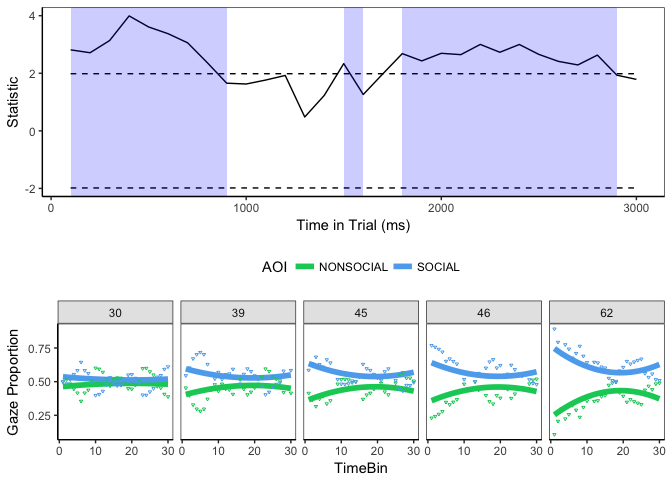
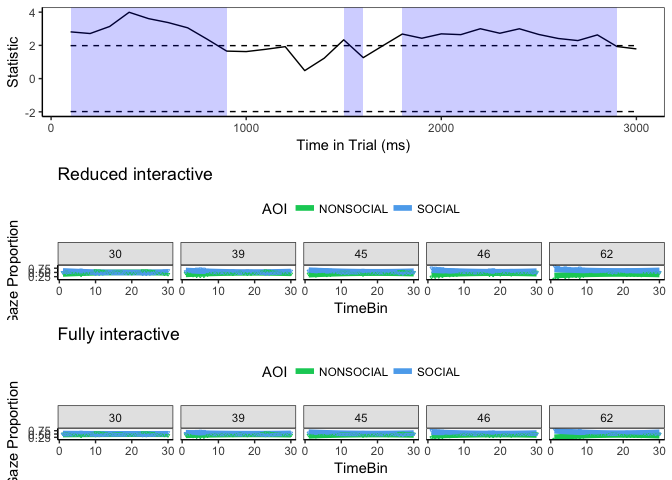
Update

diff --git a/3_sec.md b/3_sec.md
@@ -46,7 +46,7 @@ head(BIGDATA_CLEAN)
 ## 16       -   -    106  TRUE       0  FALSE     FALSE    24  102
 ```
 
-Here I assign the a variable for whether the image is inact or scrambled and also add the subject EQ/AQ data.
+Here I assign a variable for whether the image is inact or scrambled and also add the subject EQ/AQ data.
 
 
 ```r
@@ -100,17 +100,7 @@ Here I collapse time across the entire trial length and return a dataframe for p
 ```r
 library(ggplot2)
 response_window_agg_by_sub <- make_time_window_data(data, aois=c("SOCIAL","NONSOCIAL"),summarize_by = "ps",predictor_columns = c("sc2","EQ"))
-```
 
-```
-## Analyzing SOCIAL...
-```
-
-```
-## Analyzing NONSOCIAL...
-```
-
-```r
 P1=ggplot(response_window_agg_by_sub,aes(x=AOI,y=Prop))+facet_grid(.~sc2)+  stat_summary(fun.y=mean,position=position_dodge(width=0.95),geom="bar",aes(fill=AOI),size=2,alpha=.5,colour="black")+theme_bw(base_size = 11)+ylab("Gaze Proportion")+geom_point(colour="red",position = position_jitter(w=0.2),alpha=.5,size=1)+
   theme(panel.grid.minor = element_blank(),panel.grid.major = element_blank(),panel.background = element_blank(), axis.line = element_line(colour = "black"))+ theme(strip.background = element_rect(fill="gray90"))+scale_colour_discrete(guide=FALSE)+ theme(axis.text.x = element_text(angle = 25, hjust = 1))+ scale_fill_manual(values = c("springgreen3","steelblue2"))+theme(legend.position = "none")+ggtitle("a)")
 P1
@@ -126,13 +116,6 @@ Now I fit a model to the window data. Perform tests of model coefficients via li
 library(lme4)
 library(afex)
 library(phia)
-```
-
-```
-## Warning: package 'car' was built under R version 3.4.3
-```
-
-```r
 library(nlme)
 library(effects)
 
@@ -195,102 +178,8 @@ model_windowEQp <- mixed(Prop ~ AOI*sc2*EQ+(1|ps), response_window_agg_by_sub,me
 ```
 
 ```
-## Warning in mixed(Prop ~ AOI * sc2 * EQ + (1 | ps),
-## response_window_agg_by_sub, : Due to missing values, reduced number of
-## observations to 392
-```
-
-```
-## Warning in mixed(Prop ~ AOI * sc2 * EQ + (1 | ps),
-## response_window_agg_by_sub, : Due to missing values, set_data_arg set to
-## FALSE.
-```
-
-```
 ## Fitting 8 (g)lmer() models:
-## [
-```
-
-```
-## Warning: contrasts dropped from factor ps due to missing levels
-```
-
-```
-## Warning: contrasts dropped from factor ps due to missing levels
-```
-
-```
-## .
-```
-
-```
-## Warning: contrasts dropped from factor ps due to missing levels
-
-## Warning: contrasts dropped from factor ps due to missing levels
-```
-
-```
-## .
-```
-
-```
-## Warning: contrasts dropped from factor ps due to missing levels
-
-## Warning: contrasts dropped from factor ps due to missing levels
-```
-
-```
-## .
-```
-
-```
-## Warning: contrasts dropped from factor ps due to missing levels
-
-## Warning: contrasts dropped from factor ps due to missing levels
-```
-
-```
-## .
-```
-
-```
-## Warning: contrasts dropped from factor ps due to missing levels
-
-## Warning: contrasts dropped from factor ps due to missing levels
-```
-
-```
-## .
-```
-
-```
-## Warning: contrasts dropped from factor ps due to missing levels
-
-## Warning: contrasts dropped from factor ps due to missing levels
-```
-
-```
-## .
-```
-
-```
-## Warning: contrasts dropped from factor ps due to missing levels
-
-## Warning: contrasts dropped from factor ps due to missing levels
-```
-
-```
-## .
-```
-
-```
-## Warning: contrasts dropped from factor ps due to missing levels
-
-## Warning: contrasts dropped from factor ps due to missing levels
-```
-
-```
-## .]
+## [........]
 ```
 
 ```r
@@ -423,11 +312,11 @@ multiplot(P1,P2,P3,layout=matrix(c(1,1,1,3,3,3,0,2,2,2,2,0), nrow=2, byrow=TRUE)
 
 ## Growth Curve analysis_model
 
-Since we are dealing with mutliple interactions with multiple higher-order polynomials, I think it is justified to fit a model independently to scrambled and intact stimuli, to help with interpretation.
+Time to do some forward selection. We are interested in the intact condition only. 
 
 ### Intact
 
-Model 1- Start a model with the intercept only. This means that there is no bias towards either AOI. Plot the predictions to help interpretation.
+Model 1- Start a model with the intercept only. This means that there is no bias towards either AOI (since the mean of dependent proportions is going to be 0.5). Plot the predictions to help interpretation.
 
 
 ```r
@@ -439,7 +328,7 @@ plot(response_time[response_time$sc2=="Intact",], predictor_column = c("AOI"), d
 ![](3_sec_files/figure-html/unnamed-chunk-8-1.png)<!-- -->
 
 
-Model 2 - Now add AOI as a fixed effect. This allows for a vertical offset in gaze proportion dependent on the AOI, but one that is time invariant (a straight line). Plot the predictions
+Model 2 - Now add AOI as a fixed effect. This allows for a vertical offset in gaze proportion dependent on the AOI, but one that is time invariant (a straight line). Plot the predictions.
 
 
 ```r
@@ -506,7 +395,7 @@ LINTIME
 
 ![](3_sec_files/figure-html/unnamed-chunk-10-1.png)<!-- -->
 
-We continue.
+This is better than a time-invariant model, but it still doesn't fit the profile of the bias very well. We continue.
 
 Model 4 - Include linear and quadratic term.
 
@@ -572,9 +461,9 @@ Here is a good place to stop for now. The addition of a cubic term doesnt seem t
 <a id='LOO1'></a>
 ## Leave one out analysis 1
 
-Perform a leave one out analysis to test the generalisation performance of the models 
+Perform a leave one out analysis to test the generalisation performance of the models. We could rely on the AICs, but this test is more direct and robust. 
 
-First define the model objects.
+First define the model objects:
 
 
 ```r
@@ -645,7 +534,7 @@ createLOOstruct=function(frame){
 LOOSTRUCT=createLOOstruct(Intactframe)
 ```
 
-Fit the model to N-1 observers, test the fit to the left out observer.
+Fit the model to N-1 observers (training set), test the fit to the left out observer (test set).
 
 
 ```r
@@ -691,7 +580,7 @@ for (i in 1:length(psvec)){
 }
 ```
 
-Now do some plotting of the LOO performance.
+Now do some plotting of the LOO performance. Sum the residuals across the test sets.
 
 
 ```r
@@ -735,7 +624,7 @@ threshold_t = qt(p = 1 - .05/2, df = num_sub-1)
 response_time_new <- make_time_sequence_data(data, time_bin_size = 100,aois = c("SOCIAL"),predictor_columns = c("sc2","AQ","EQ"),summarize_by="ps")
 response_time_new=response_time_new[response_time_new$Time>=100,]
 
-# Define EQ as a predictor and dind adjacent bins that pass the t test-statistic threshold. 
+# Define EQ as a predictor and find adjacent bins that pass the t test-statistic threshold. 
 df_timeclust_between <- make_time_cluster_data(response_time_new[response_time_new$sc2=="Intact",], test= "lm",predictor_column = "EQ", threshold = threshold_t)
 
 # Plot the timebins that exceed the threshold.
@@ -743,7 +632,7 @@ Px=plot(df_timeclust_between)+ scale_fill_manual(values = c("springgreen3","stee
 theme(panel.grid.minor = element_blank(),panel.grid.major = element_blank(),panel.background = element_blank(), axis.line = element_line(colour = "black"))+ theme(strip.background = element_rect(fill="gray90"))+xlab("Time in Trial (ms)")
 
 
-# Perform the bootstrapped-cluster analysis.
+# Perform the bootstrapped-cluster analysis (described in the SI).
 clust_analysis_between <- analyze_time_clusters(df_timeclust_between, within_subj = FALSE, samples=1000)
 clust_analysis_between
 ```
@@ -775,7 +664,7 @@ multiplot(Px,Py)
 ```
 
 
-Now add EQ as a fixed effect in addition to the variables defined in our global model. Specify a model that allows EQ to interact with just AOI (reduced interactive) and also one that additionally allows it to interact with time (fully interactive).
+Now add EQ as a fixed effect in addition to the variables defined in our global model. Specify a model that allows EQ to interact with just AOI (reduced interactive) and also one that additionally allows it to interact with the time regressors (fully interactive).
 
 
 ```r
@@ -1006,10 +895,6 @@ slist2=match(subj2,unsort_list2)
 
 pslist2=unique(modEMP$ps)[slist2]
 
-fits1=ggplot(modEMP[modEMP$sc2=="Intact" & modEMP$ps %in% pslist2,],aes(x=TimeBin,y=Prop))+facet_wrap(~ps,nrow=1)+geom_line(aes(x=TimeBin,y=predEQ,colour=AOI),size=2,linetype="solid")+geom_point(aes(colour=AOI),size=0.5,shape=6)+ scale_colour_manual(values = c("springgreen3","steelblue2","springgreen3","steelblue2"))+ scale_fill_manual(values = c("springgreen3","steelblue2","springgreen3","steelblue2"))+theme_bw(base_size=11)+
-  theme(panel.grid.minor = element_blank(),panel.grid.major = element_blank(),panel.background = element_blank(), axis.line = element_line(colour = "black"))+ theme(strip.background = element_rect(fill="gray90"))+ theme(legend.position="top")+ylab("Gaze Proportion")
-
-
 
 modEMP2=modEMP[modEMP$ps %in% pslist2,]
 
@@ -1019,7 +904,31 @@ fits1=ggplot(modEMP2[modEMP2$sc2=="Intact",],aes(x=TimeBin,y=Prop))+facet_wrap(~
 
 
 
-multiplot(Px,fits1)
+modEMP2=cbind(EQFRAME[!is.na(EQFRAME$Prop),],predict(m2))
+
+colnames(modEMP2)=c(colnames(EQFRAME),"predEQ")
+
+modEMP2$ssrEQ=rep(0,nrow(modEMP2))
+
+
+for (p in 1:length(unique(modEMP2$ps))){
+    modEMP2[modEMP2$ps==unique(modEMP2$ps)[p],]$ssrEQ=rep(sum((modEMP2[modEMP2$ps==unique(modEMP2$ps)[p],]$predEQ-modEMP2[modEMP2$ps==unique(modEMP2$ps)[p],]$Prop)^2))
+    
+}
+
+
+modEMP2=modEMP2[modEMP2$ps %in% pslist2,]
+
+
+fits2=ggplot(modEMP2[modEMP2$sc2=="Intact",],aes(x=TimeBin,y=Prop))+facet_wrap(~EQ,nrow=1)+geom_line(aes(x=TimeBin,y=predEQ,colour=AOI),size=2,linetype="solid")+geom_point(aes(colour=AOI),size=0.5,shape=6)+ scale_colour_manual(values = c("springgreen3","steelblue2","springgreen3","steelblue2"))+ scale_fill_manual(values = c("springgreen3","steelblue2","springgreen3","steelblue2"))+theme_bw(base_size=11)+
+  theme(panel.grid.minor = element_blank(),panel.grid.major = element_blank(),panel.background = element_blank(), axis.line = element_line(colour = "black"))+ theme(strip.background = element_rect(fill="gray90"))+ theme(legend.position="top")+ylab("Gaze Proportion")
+
+
+
+
+
+
+multiplot(Px,fits2+ggtitle("Reduced interactive"),fits1+ggtitle("Fully interactive"))
 ```
 
 ![](3_sec_files/figure-html/unnamed-chunk-22-1.png)<!-- -->
